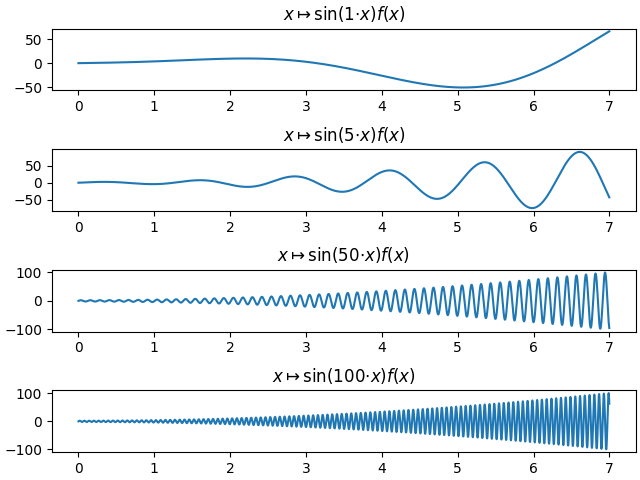
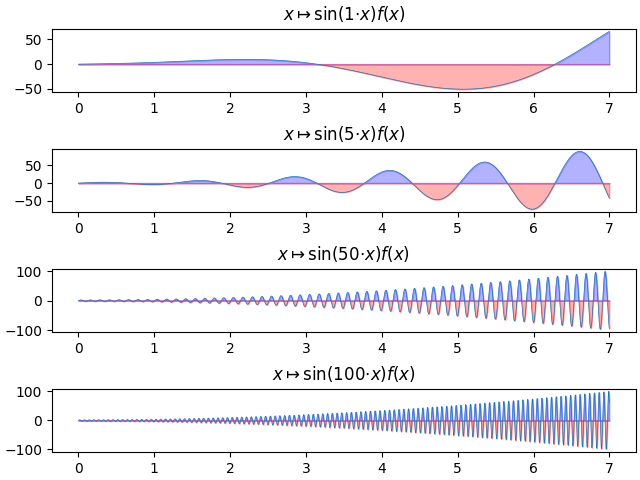
MàJ figure lemme de Lebesgue

diff --git a/illustrations/integration-02_lebesgue.py b/illustrations/integration-02_lebesgue.py
@@ -8,14 +8,18 @@ g = lambda x: x**(1/2) + 2 * x**2 - np.log(x + 1) + 2
 
 K = [1, 5, 50, 100]
 
-
 fig, ax = plt.subplots(len(K), 1, constrained_layout=True)
 for i, k in enumerate([1, 5, 50, 100]):
     f = lambda x: np.sin(k * x) * g(x)
     f = np.vectorize(f)
+    Y = f(X)
+    positive_area = np.where(Y > 0, Y, 0)
+    negative_area = np.where(Y < 0, Y, 0)
     I = integrate.quad(f, 0, 2*np.pi)[0]
     lab = "{k}, {I:.2f}".format(k=k, I=I)
     ax[i].set_title(r"$x \mapsto \sin($"+str(k)+r"$\cdot x) f(x)$")
-    ax[i].plot(X, f(X), label=lab)
+    ax[i].plot(X, Y, label=lab, linewidth=0.5)
+    ax[i].fill_between(X, positive_area, color='blue', alpha=0.3)
+    ax[i].fill_between(X, negative_area, color='red', alpha=0.3)
 
 plt.savefig("integration-02_lebesgue.png")

diff --git a/chapitres/integration/02-lemme_de_lebesgue.tex b/chapitres/integration/02-lemme_de_lebesgue.tex
@@ -19,6 +19,8 @@ Soit $a < b$.
 Ajout du graphique suivant, à supprimer ou améliorer en coloriant les aires positives et négatives ?
 }
 
+\todoarmand{Je suis partant pour laisser le graphique, j'ai ajouté une version avec les aires colorées.}
+
 On constate sur la figure suivante que plus $\lambda$ est grand, plus les oscillations sont élevées et plus les aires comptées positivement et négativement se compensent.
 \begin{center}
 \includegraphics[width=0.75\textwidth]{illustrations/integration-02_lebesgue.png}

diff --git a/chapitres/integration/20-fonction_zeta.tex b/chapitres/integration/20-fonction_zeta.tex
@@ -1,9 +1,5 @@
-
-
 %---------------
-
-\begin{exercice}
-
+\begin{exercice}    
 [Fonction Zêta de {Riemann}, ]%
 {Rudin Ex.16 p.131}%
 Pour tout réel $s > 1$, on pose $\zeta(s) = \sum_{n=1}^\infty \frac{1}{n^s}$.
